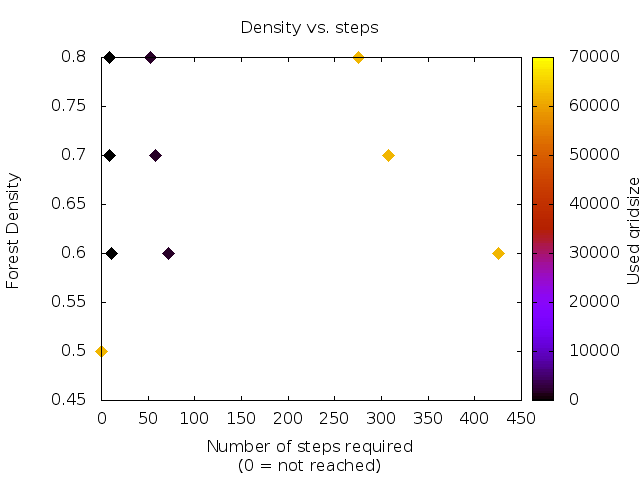
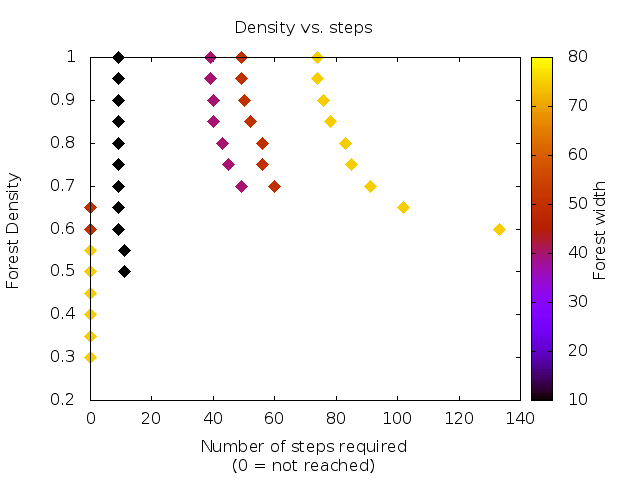
Segfault finally solved. Simulation complete. Add some extra graphs later?

diff --git a/4/forest.c b/4/forest.c
@@ -20,17 +20,6 @@
 #define COLOR_YELLOW "\x1b[33m"
 #define COLOR_RESET "\x1b[0m"
 
-#define FONT_BOLD "27[1m"
-#define END_BOLD "27[0m"
-
-/*
- * TODO FOR FOREST FIRE:
- * 1. Implement the grid (multi dimensional array)
- * 2. Write some simple loops to emulate the forest fire
- * 3. Output some images show the simulation
- * 4. Think about optimisation. (only looking at the burning trees?)
- */
-
 int forest_fire(int x, int y, double density)
 {
     Forest *forest;
@@ -44,9 +33,9 @@ int forest_fire(int x, int y, double density)
     //printf("\n");
     while(forest_fire_sim(forest))
     {
-       // print_grid(forest);
-       // printf("\n");
-       // sleep(1);
+        //print_grid(forest);
+        //printf("\n");
+        //sleep(1);
     }
     if(forest->crossed > 0)
     {
@@ -58,6 +47,8 @@ int forest_fire(int x, int y, double density)
     printf(COLOR_RED "Couldn't reach the other side of the forest. "
         "Burning stopped after %d steps.\n", abs(forest->crossed));
     printf(COLOR_RESET);
+    cleanup_grid(forest);
+    free(forest);
     return 0;
 }
 
@@ -74,8 +65,6 @@ Forest* init_grid(int x, int y)
     newgrid->y = y;
     newgrid->grid = content;
     newgrid->burning = (int *)calloc(x*y, sizeof(int));
-    for(i = 0; i < x*y; i++)
-        newgrid->burning[i] = -1;
     return newgrid;
 }
 
@@ -95,7 +84,7 @@ void fill_grid(Forest *f, double density)
         }
     }
     f->crossed = 0;
-    for(i = 0; i < f->x; i++)
+    for(i = 0; i < f->y; i++)
     {
         if(f->grid[0][i] == VEGETATION)
         {
@@ -135,18 +124,18 @@ int forest_fire_sim(Forest *f)
     for(i = 0; i < f->burns; i++)
     {
         int x, y;
-        x = f->burning[i] / f->x;
-        y = f->burning[i] % f->x;
-        //printf("BURNING: %d:%d\n", x, y);
+        x = f->burning[i] / f->y;
+        y = f->burning[i] % f->y;
+        //printf("BURNING: %d:%d (%d)\n", x, y, f->burning[i]);
         if(x > 0 && f->grid[x-1][y] == VEGETATION)
         {
-            newburns[burn++] = f->burning[i] - f->x;
+            newburns[burn++] = f->burning[i] - f->y;
             f->grid[x-1][y] = BURNING;
-            //printf("NEW BURN: %d:%d (%d)\n", x-1, y, f->burning[i] - f->x);
+          //  printf("NEW BURN: %d:%d (%d)\n", x-1, y, f->burning[i] - f->x);
         }
         if(x < f->x-1 && f->grid[x+1][y] == VEGETATION)
         {
-            newburns[burn++] = f->burning[i] + f->x;
+            newburns[burn++] = f->burning[i] + f->y;
             f->grid[x+1][y] = BURNING;
             if(x == f->x-2 && f->crossed < 1)
             {
@@ -160,7 +149,7 @@ int forest_fire_sim(Forest *f)
             f->grid[x][y-1] = BURNING;
             //printf("NEW BURN: %d:%d (%d)\n", x, y-1, f->burning[i] - 1);
         }
-        if(y < f->y && f->grid[x][y+1] == VEGETATION)
+        if(y < f->y-1 && f->grid[x][y+1] == VEGETATION)
         {
             newburns[burn++] = f->burning[i] + 1;
             f->grid[x][y+1] = BURNING;
@@ -172,4 +161,17 @@ int forest_fire_sim(Forest *f)
     f->burning = newburns;
     if(burn == 0) return 0;
     return 1;
+}
+
+void cleanup_grid(Forest *f)
+{
+    int i;
+    for(i = 0; i < f->x; i++)
+        free(f->grid[i]);
+    free(f->grid);
+    f->x = 0;
+    f->y = 0;
+    f->burns = 0;
+    f->crossed = 0;
+    free(f->burning);
 }

diff --git a/4/main.c b/4/main.c
@@ -23,12 +23,12 @@
 #define LARGE 2
 
 #define GRIDS 4
-#define DENSITIES 8
+#define DENSITIES 15
 
 int main()
 {
-    int dim[GRIDS][2] = {{10,10}, {40,40}, {50,70}, {75,100}};
-    double densities[DENSITIES] = {0.4, 0.5, 0.55, 0.6, 0.65, 0.7, 0.8, 0.9};
+    int dim[GRIDS][2] = {{10,20}, {40,40}, {50,40}, {75,75}};
+    double densities[DENSITIES] = {0.3, 0.35, 0.4, 0.45, 0.5, 0.55, 0.6, 0.65, 0.7, 0.75, 0.8, 0.85, 0.9, 0.95, 1.0};
     int steps[GRIDS][DENSITIES];
     int i, j;
     FILE *data;
@@ -53,8 +53,8 @@ int main()
     fprintf(gp, "set pointsize 2 \n");
     fprintf(gp, "set xlabel \"Number of steps required\\n(0 = not reached)\"\n");
     fprintf(gp, "set ylabel \"Forest Density\"\n");
-    fprintf(gp, "set cblabel \"Used gridsize\"\n");
-    fprintf(gp, "plot \"data.dat\" using 5:4:3 notitle with points lt palette pt 13\n");
+    fprintf(gp, "set cblabel \"Forest width\"\n");
+    fprintf(gp, "plot \"data.dat\" using 5:4:1 notitle with points lt palette pt 13\n");
     fprintf(gp, "set terminal png \n");
     fprintf(gp, "set output \"test.png\"\n");
     fprintf(gp, "replot\n");

diff --git a/4/forest.h b/4/forest.h
@@ -12,5 +12,5 @@ Forest* init_grid(int x, int y);
 void fill_grid(Forest *f, double density);
 void print_grid(Forest *f);
 int forest_fire_sim(Forest *f);
-
+void cleanup_grid(Forest *f);
 #endif
